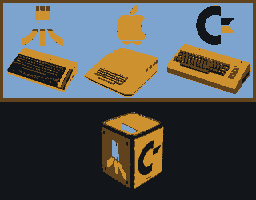
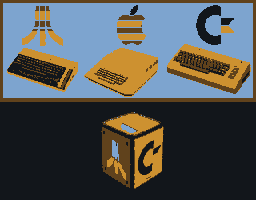
Demos: Fixed NES bitmaps and sprite palettes.

Changed region(s): [[0.4375, 0.03, 0.5625, 0.24], [0.125, 0.06, 0.2188, 0.15]]

diff --git a/projects/demos/src/demo-sprites.c b/projects/demos/src/demo-sprites.c
@@ -33,14 +33,14 @@ extern const char nextKey;
   #define spriteFrames 16
   #define spriteCols    8
   #define spriteRows    8
-  const unsigned char spriteColors[] = { PAL_BLACK, PAL_BLUE, PAL_CYAN, PAL_GREY,  PAL_BLACK, PAL_RED, PAL_CYAN, PAL_GREY, 
-										 PAL_BLACK, PAL_GREEN, PAL_CYAN, PAL_GREY, PAL_BLACK, PAL_YELLOW, PAL_CYAN, PAL_GREY }; // 4 palettes of 4 colors
+  const unsigned char spriteColors[] = { SPR_BLACK, SPR_BLUE, SPR_CYAN, SPR_GREY,  SPR_BLACK, SPR_RED, SPR_CYAN, SPR_GREY, 
+										 SPR_BLACK, SPR_GREEN, SPR_CYAN, SPR_GREY, SPR_BLACK, SPR_YELLOW, SPR_CYAN, SPR_GREY }; // 4 palettes of 4 colors
   const unsigned char inkColors[] = { BLUE, RED, LGREEN, YELLOW };		// P1, P2, P3, P4
 #elif defined __ORIC__
   #define spriteFrames 16
   #define spriteCols   12
   #define spriteRows    6
-  const unsigned char spriteColors[] = { PAL_CYAN, PAL_MAGENTA, PAL_GREEN, PAL_WHITE, PAL_AIC, PAL_AIC, PAL_AIC, PAL_AIC };	// Matching more or less with above
+  const unsigned char spriteColors[] = { SPR_CYAN, SPR_MAGENTA, SPR_GREEN, SPR_WHITE, SPR_AIC, SPR_AIC, SPR_AIC, SPR_AIC };	// Matching more or less with above
   const unsigned char inkColors[] = { CYAN, LPURPLE, LGREEN, GREY };	// P1, P2, P3, P4
 #endif
 
